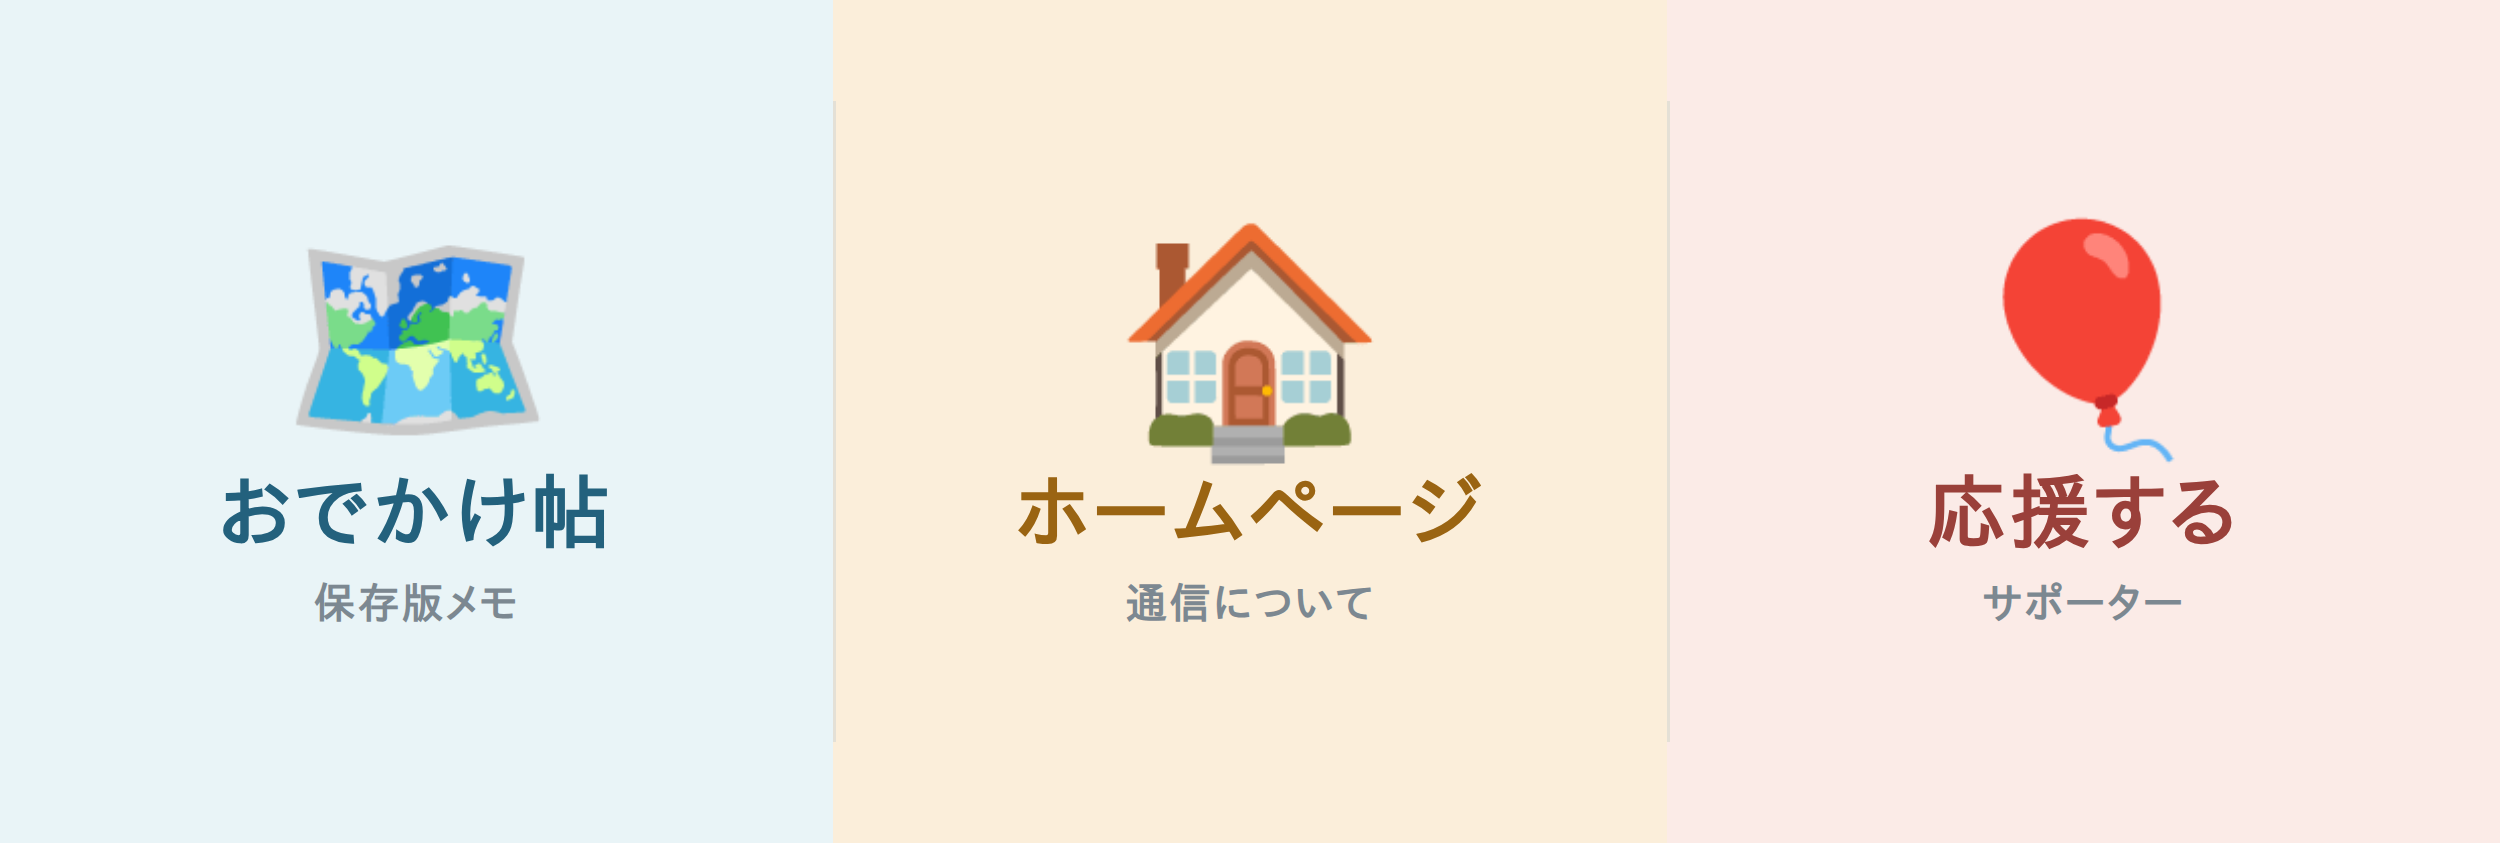
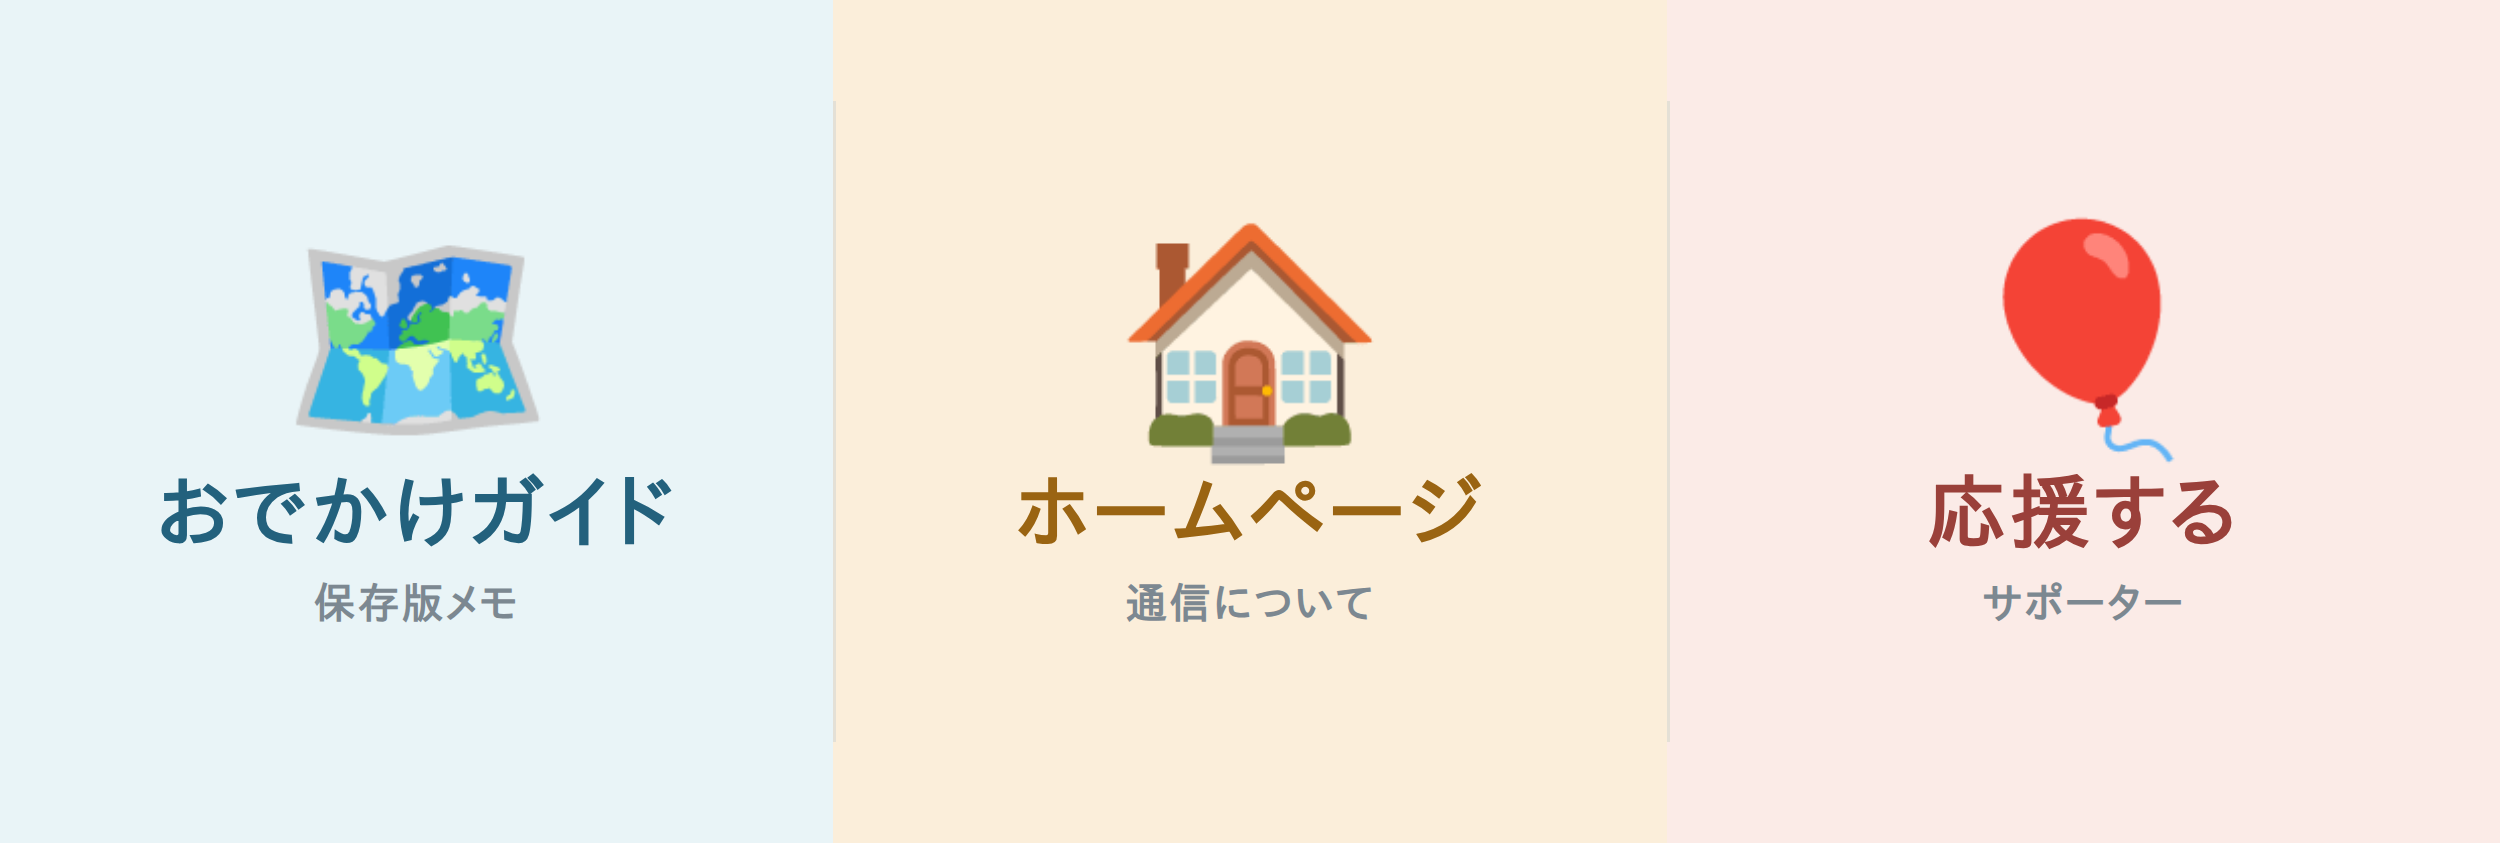
名称を「おでかけ帖」→「おでかけガイド」に統一(ガイド/カード/リッチメニュー/拡散キット)
Claude-Session: https://claude.ai/code/session_01KMfMQEFALQCm7vmScjBXHp

Changed region(s): [[0.0624, 0.5552, 0.2808, 0.6477]]

diff --git a/docs/homepage/guide.html b/docs/homepage/guide.html
@@ -3,7 +3,7 @@
 <head>
 <meta charset="utf-8">
 <meta name="viewport" content="width=device-width, initial-scale=1">
-<title>花小金井 子連れおでかけ帖｜ぼんぼやーじゅ通信</title>
+<title>花小金井 子連れおでかけガイド｜ぼんぼやーじゅ通信</title>
 <style>
   :root {
     --ground: #FBFAF5; --surface: #FFFFFF; --surface-2: #F5F2EA;
@@ -94,7 +94,7 @@
 <header class="ghead">
   <div class="ghead-in">
     <div class="eyebrow">Bon Voyage,</div>
-    <h1>花小金井<br>子連れおでかけ帖</h1>
+    <h1>花小金井<br>子連れおでかけガイド</h1>
     <p class="sub">未就学児・小学生のいるご家庭へ。花小金井まわりの“間違いない”おでかけ先を、地元メモつきでまとめました。スマホに保存して使ってください。</p>
     <div class="legend">目安 👶あかちゃん(0-2) / 🧒未就学(3-6) / 🎒小学生　◎ぴったり ○OK △ひと工夫</div>
   </div>
@@ -390,7 +390,7 @@
   </section>
 
   <div class="gfoot">
-    <p>この「おでかけ帖」は、ぼんぼやーじゅ通信がまとめた花小金井の子連れおでかけメモです。<br>最新の週末おでかけ情報は、毎週の無料通信でお届けしています。</p>
+    <p>この「おでかけガイド」は、ぼんぼやーじゅ通信がまとめた花小金井の子連れおでかけ情報です。<br>最新の週末おでかけ情報は、毎週の無料通信でお届けしています。</p>
     <div class="btns">
       <a class="btn btn-line" href="https://lin.ee/YtcfjnX" target="_blank" rel="noopener">LINEで受け取る（無料）</a>
       <a class="btn btn-ghost" href="https://bonvoya.nicomaru.tokyo/">ホームページを見る</a>

diff --git a/docs/homepage/card.html b/docs/homepage/card.html
@@ -64,7 +64,7 @@
       未就学児・小学生のいるご家庭へ🎈<br>
       <span class="hl">友だち追加</span>で、週末のおでかけ情報を無料でお届け
     </div>
-    <div class="gift">🎁 いま追加で「花小金井 子連れおでかけ帖」プレゼント</div>
+    <div class="gift">🎁 いま追加で「花小金井 子連れおでかけガイド」プレゼント</div>
 
     <div class="qr-wrap">
       <div class="qr-box"><img src="assets/line-qr.png" alt="LINE友だち追加QRコード"></div>

diff --git a/docs/share-kit.md b/docs/share-kit.md
@@ -4,7 +4,7 @@
 
 ## 主要リンク
 - 友だち追加(LINE): https://lin.ee/YtcfjnX
-- おでかけ帖(登録フック): https://bonvoya.nicomaru.tokyo/guide.html
+- おでかけガイド(登録フック): https://bonvoya.nicomaru.tokyo/guide.html
 - ホームページ: https://bonvoya.nicomaru.tokyo/
 - 応援(note): https://note.com/bon_voyage_mail/membership
 - 友だち追加カード(印刷用A6): https://bonvoya.nicomaru.tokyo/card.html
@@ -25,7 +25,7 @@ https://bonvoya.nicomaru.tokyo/
 
 ▼受け取るならLINEで友だち追加（無料）
 https://lin.ee/YtcfjnX
-※いま追加で「花小金井 子連れおでかけ帖」(地元メモ＆地図つき)ももらえるよ
+※いま追加で「花小金井 子連れおでかけガイド」(地元メモ＆地図つき)ももらえるよ
 
 合わなかったらブロックでOK。気軽にどうぞ🙌
 ```
@@ -37,7 +37,7 @@ https://lin.ee/YtcfjnX
 
 ▼どんな内容か見てみて（ホームページ）
 https://bonvoya.nicomaru.tokyo/
-▼LINEで友だち追加（無料・「おでかけ帖」プレゼント付き）
+▼LINEで友だち追加（無料・「おでかけガイド」プレゼント付き）
 https://lin.ee/YtcfjnX
 ```
 
@@ -48,9 +48,9 @@ https://lin.ee/YtcfjnX
 はじめまして、「ぼんぼやーじゅ通信」です🎈
 友だち追加ありがとうございます！
 
-さっそく、お約束の【花小金井 子連れおでかけ帖】をどうぞ👇
+さっそく、お約束の【花小金井 子連れおでかけガイド】をどうぞ👇
 地元メモ＆地図つきで、“間違いない”おでかけ先をまとめました。スマホに保存して使ってくださいね。
-▼花小金井 子連れおでかけ帖
+▼花小金井 子連れおでかけガイド
 https://bonvoya.nicomaru.tokyo/guide.html
 
 これから毎週水曜に、花小金井まわりの週末おでかけ情報（天気に合わせた“今週これ”や、連休の予約先取りも）をお届けします。
